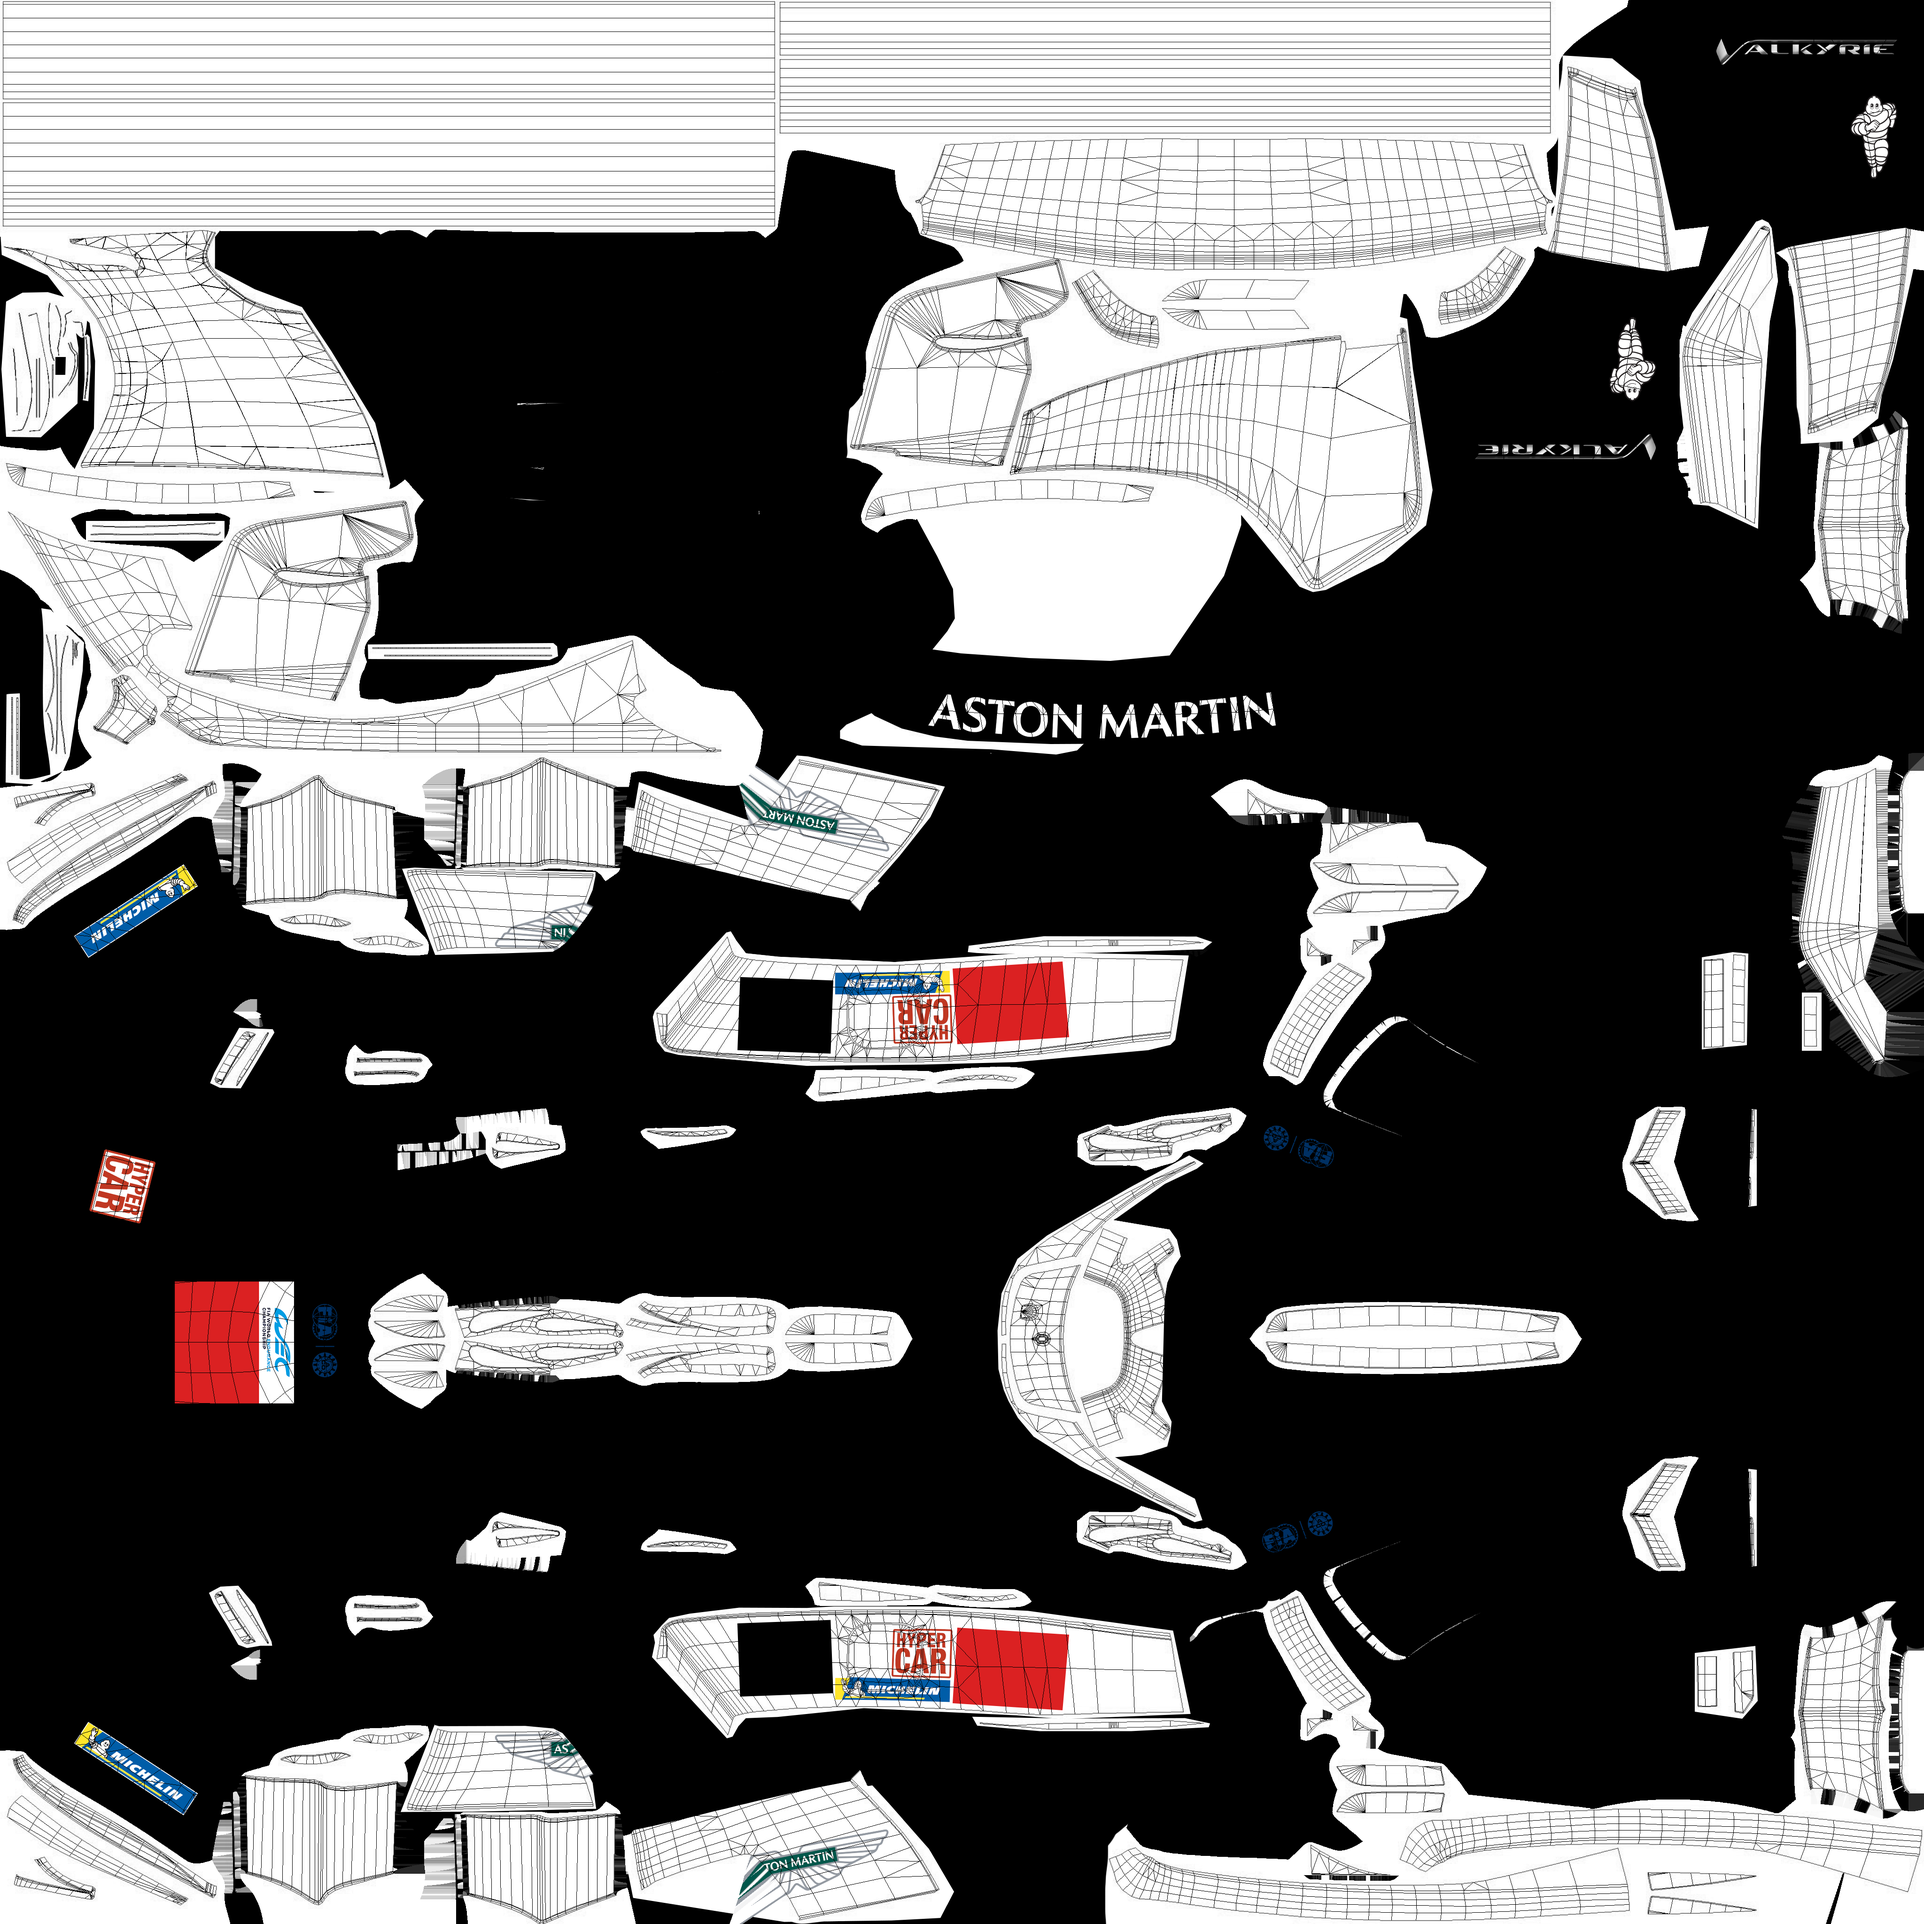
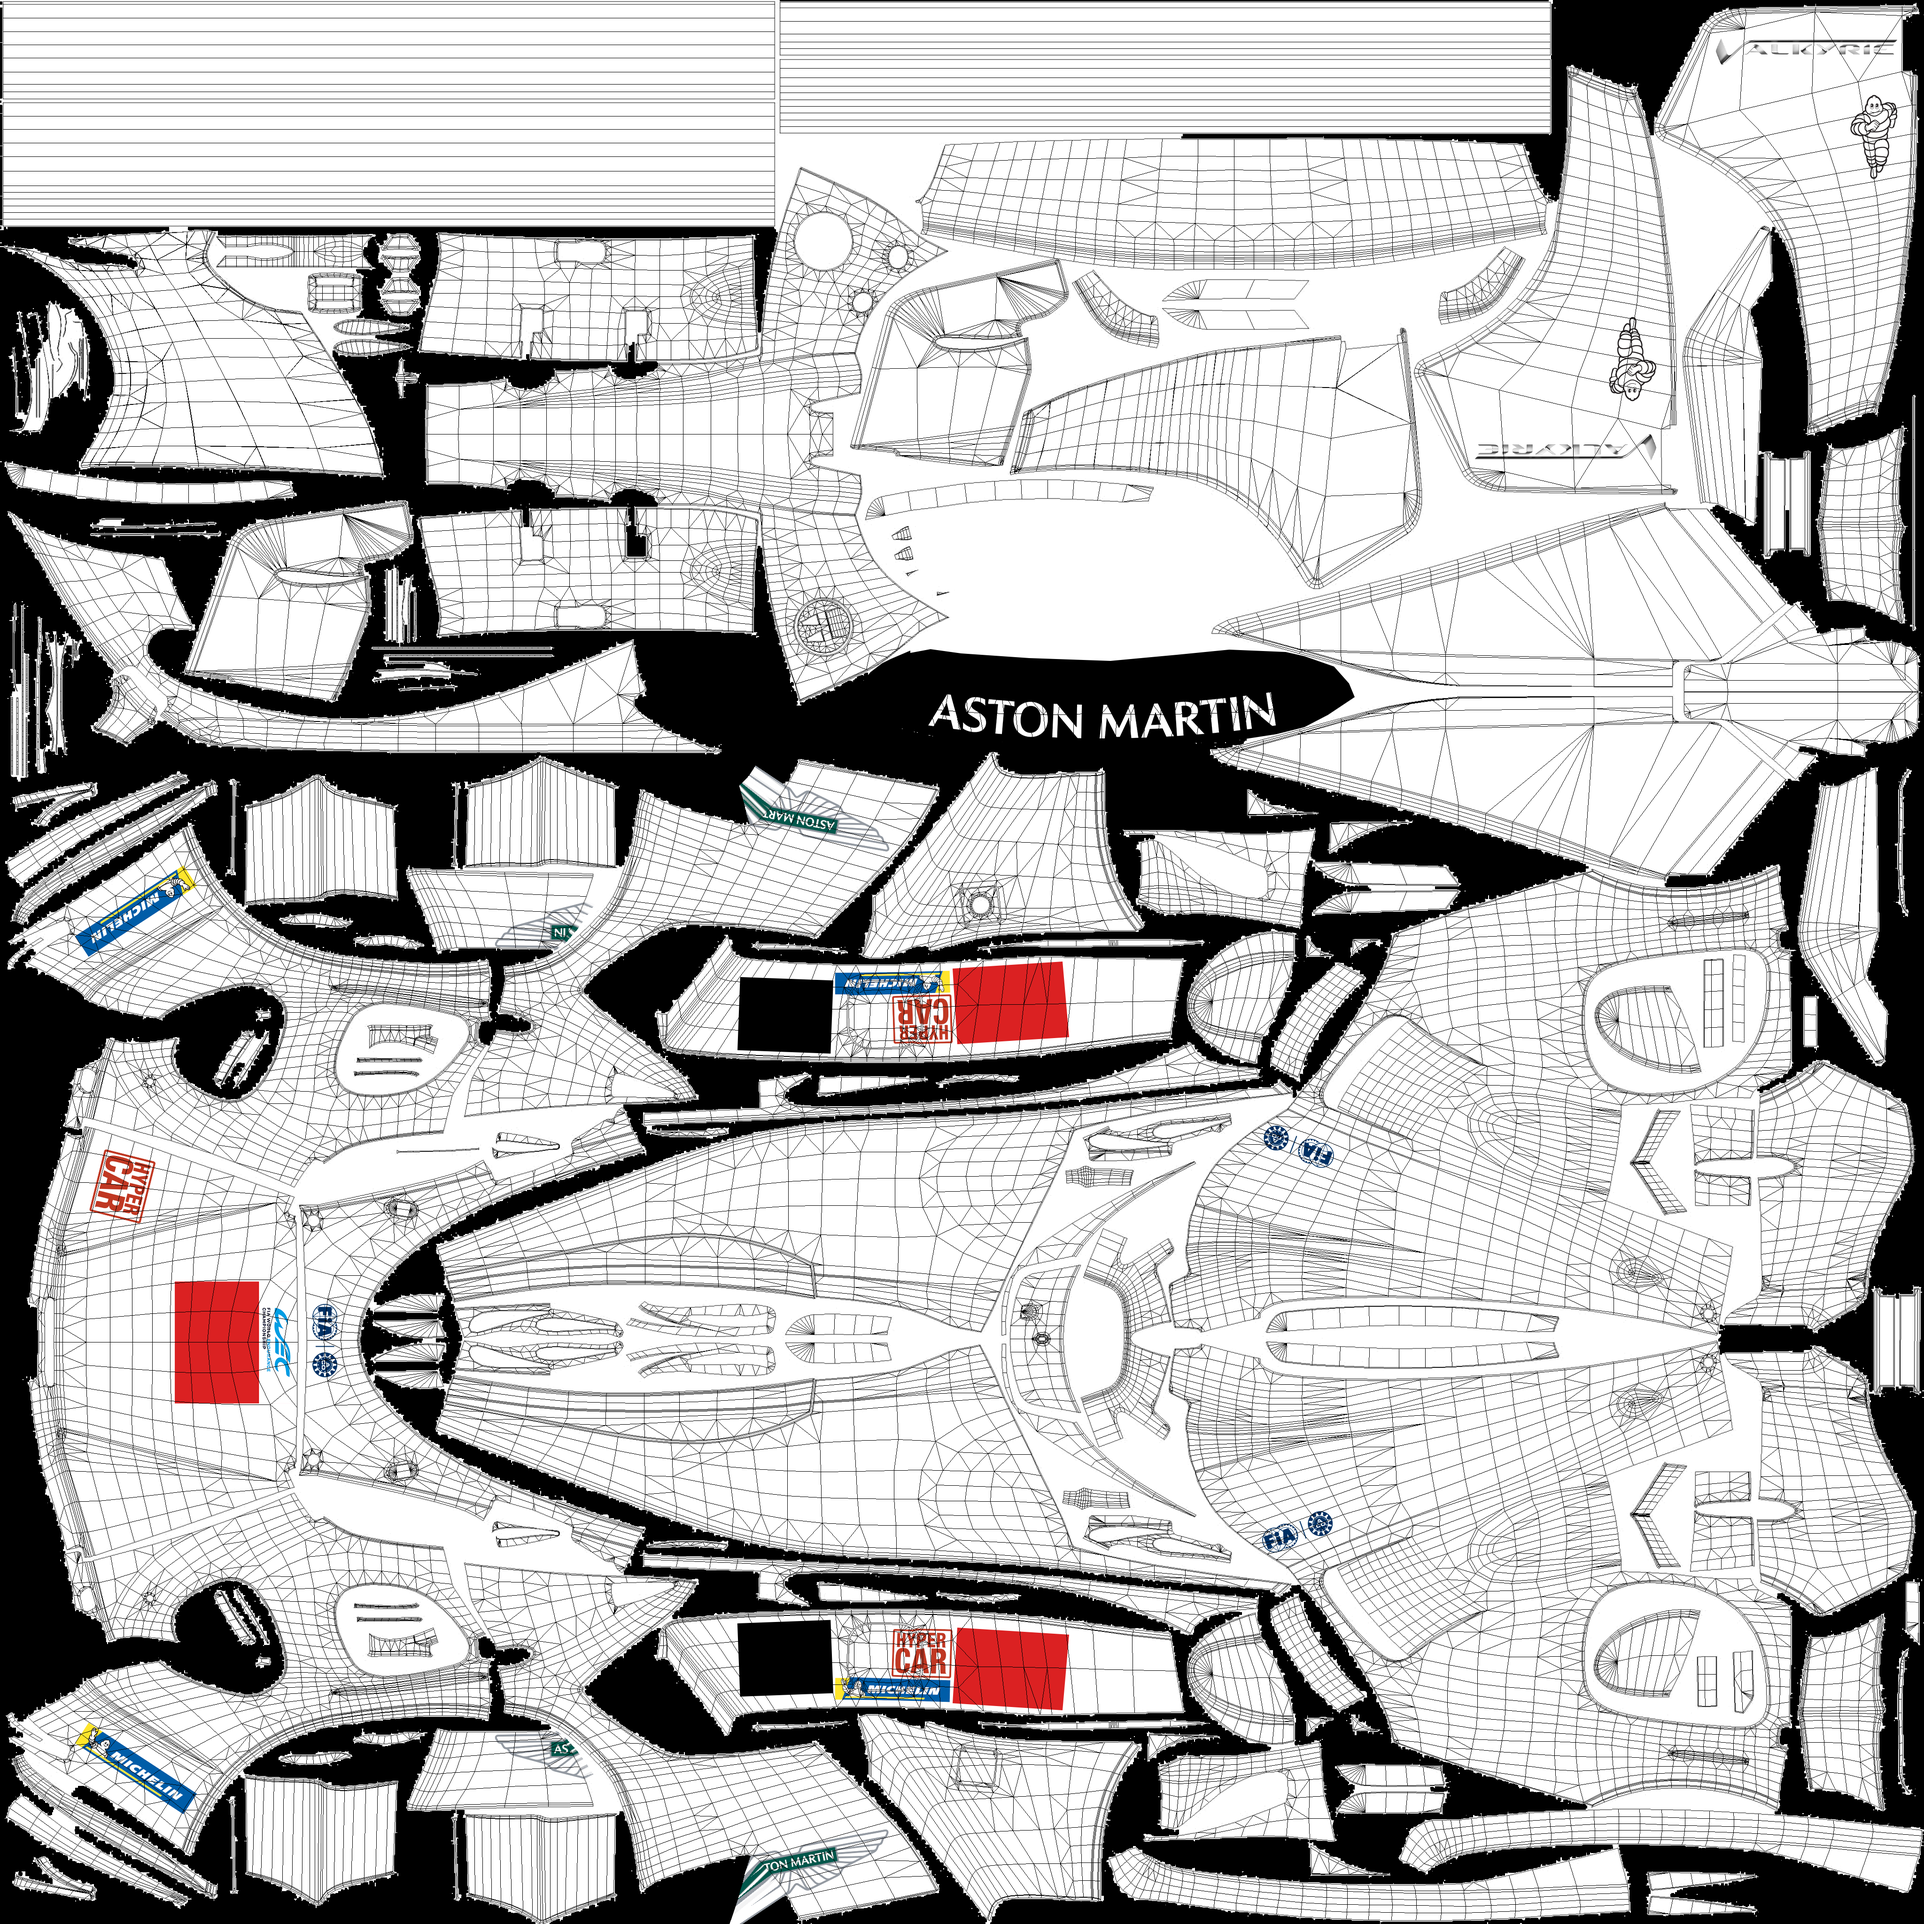
Add the GTE class, release the 2026 templates, rebuild the Valkyrie assets
Roster 29 -> 38.

GTE (4 cars): Aston Martin Vantage GTE, Corvette C8.R GTE, Ferrari 488 GTE and
Porsche 911 RSR GTE, under a new GTE class listed last in CLASS_ORDER. GTE is a
closed, retired category - one template per car, no season or series variants -
so like the GT3s these carry no series badge even though their plates still come
from the WEC subtree.

2026 season (5 cars): Ferrari 296 LMGT3 EVO, Ford Mustang LMGT3 EVO and Porsche
911 GT3 R in LMGT3; Toyota GR010 Hybrid and Cadillac V-Series.R EVO in Hypercar.
Extracted in August but never released. Each sits alongside its 2025 counterpart
rather than replacing it, so saved designs keep the guide they were drawn on.

Every GTE file needed material layers excluded - the Porsche's unnamed "Group 2"
(a matte-plastic block), the Aston's "Black"/"EXHAUST", the Ferrari's
"DETAILS"/"Skirt" - plus the Ferrari's "Car Stickers copy", a flattened duplicate
of its whole sticker set. Left in, these bake solid blobs onto the user's livery
in the exported .tga; excluded, GTE sticker-sheet coverage drops from 4.6-6.5% to
1.9-3.3%, in line with the rest of the pack.

No silhouette override was added. The Ferrari 488 has no "Mask(Disable for
export)" and its "Color Fill 1" reads like a stand-in at 43%, but it is the
surround: naming it puts the islands exactly where the car is not, and the
wireframe then multiplies into the black and the guide ships with no mesh at all.
[…]

diff --git a/src/lib/vehicles.js b/src/lib/vehicles.js
@@ -6,7 +6,7 @@ const LMU_BASE = 'C:\\Program Files (x86)\\Steam\\steamapps\\common\\Le Mans Ult
  * Display order for the class-grouped vehicle picker. Any class not listed here is
  * appended after these, so adding a class to VEHICLES can never hide it.
  */
-export const CLASS_ORDER = ['Hypercar', 'LMP2', 'LMP3', 'LMGT3'];
+export const CLASS_ORDER = ['Hypercar', 'LMP2', 'LMP3', 'LMGT3', 'GTE'];
 
 /**
  * NOTE: `id` is persisted as `saved_designs.vehicle_id` (free text, no FK), and an
@@ -43,6 +43,19 @@ export const VEHICLES = [
     canvasHeight: 4096,
     liveryPath: `${LMU_BASE}\\Ferrari 296 LMGT3`,
   },
+  // 2026-season GT3 templates sit ALONGSIDE their 2025 counterparts, never replace
+  // them - cars with no 2026 file are unchanged for 2026 (confirmed by the LMU dev
+  // team). No liveryPath on 2026 entries: the field is unused and the in-game
+  // folder names for the 2026 cars are unconfirmed.
+  {
+    id: 'ferrari_296_evo_lmgt3',
+    name: 'Ferrari 296 LMGT3 EVO (2026)',
+    class: 'LMGT3',
+    uvMap: '/lmutemplates/Ferrari296LMGT3_EVO_2026_UV.webp',
+    classStickers: '/lmutemplates/TOP_Ferrari296LMGT3_EVO_2026.webp',
+    canvasWidth: 4096,
+    canvasHeight: 4096,
+  },
   {
     id: 'bmw_m4_lmgt3',
     name: 'BMW M4 LMGT3',
@@ -62,6 +75,15 @@ export const VEHICLES = [
     canvasWidth: 4096,
     canvasHeight: 4096,
     liveryPath: `${LMU_BASE}\\Ford Mustang LMGT3`,
+  },
+  {
+    id: 'ford_mustang_evo_lmgt3',
+    name: 'Ford Mustang LMGT3 EVO (2026)',
+    class: 'LMGT3',
+    uvMap: '/lmutemplates/FordMustangLMGT3_EVO_2026_UV.webp',
+    classStickers: '/lmutemplates/TOP_FordMustangLMGT3_EVO_2026.webp',
+    canvasWidth: 4096,
+    canvasHeight: 4096,
   },
   {
     id: 'lamborghini_huracan_lmgt3',
@@ -113,6 +135,15 @@ export const VEHICLES = [
     canvasHeight: 4096,
     liveryPath: `${LMU_BASE}\\Porsche 911 LMGT3`,
   },
+  {
+    id: 'porsche_911_lmgt3_2026',
+    name: 'Porsche 911 GT3 R (2026)',
+    class: 'LMGT3',
+    uvMap: '/lmutemplates/Porsche911LMGT3R_2026_UV.webp',
+    classStickers: '/lmutemplates/TOP_Porsche911LMGT3R_2026.webp',
+    canvasWidth: 4096,
+    canvasHeight: 4096,
+  },
 
   // --- Hypercar (WEC) --------------------------------------------------------
   // Hypercar runs in the WEC only, so these carry no ELMS variant.
@@ -136,6 +167,17 @@ export const VEHICLES = [
     canvasWidth: 4096,
     canvasHeight: 4096,
   },
+  // 2026 update, alongside the 2025 car (same policy as the GT3 2026 entries).
+  {
+    id: 'toyota_gr010_2026_hypercar',
+    name: 'Toyota GR010 Hybrid (2026)',
+    class: 'Hypercar',
+    series: 'WEC',
+    uvMap: '/lmutemplates/ToyotaGR010_2026_UV.webp',
+    classStickers: '/lmutemplates/TOP_ToyotaGR010_2026.webp',
+    canvasWidth: 4096,
+    canvasHeight: 4096,
+  },
   {
     id: 'porsche_963_hypercar',
     name: 'Porsche 963',
@@ -153,6 +195,17 @@ export const VEHICLES = [
     series: 'WEC',
     uvMap: '/lmutemplates/CadillacVSeries_2026_UV.webp',
     classStickers: '/lmutemplates/TOP_CadillacVSeries_2026.webp',
+    canvasWidth: 4096,
+    canvasHeight: 4096,
+  },
+  // Distinct 2026 EVO variant, not an update of the car above.
+  {
+    id: 'cadillac_vseries_evo_hypercar',
+    name: 'Cadillac V-Series.R EVO (2026)',
+    class: 'Hypercar',
+    series: 'WEC',
+    uvMap: '/lmutemplates/CadillacVSeries_EVO_2026_UV.webp',
+    classStickers: '/lmutemplates/TOP_CadillacVSeries_EVO_2026.webp',
     canvasWidth: 4096,
     canvasHeight: 4096,
   },
@@ -309,6 +362,48 @@ export const VEHICLES = [
     series: 'ELMS',
     uvMap: '/lmutemplates/AdessAD25LMP3_UV.webp',
     classStickers: '/lmutemplates/TOP_AdessAD25LMP3.webp',
+    canvasWidth: 4096,
+    canvasHeight: 4096,
+  },
+
+  // --- GTE -------------------------------------------------------------------
+  // A retired, closed class: four cars, one template each, no season or series
+  // variants to disambiguate - so like the GT3s these carry no series badge even
+  // though their plates are taken from the WEC subtree. Listed last in CLASS_ORDER
+  // as the oldest category in the pack.
+  {
+    id: 'aston_martin_vantage_gte',
+    name: 'Aston Martin Vantage GTE',
+    class: 'GTE',
+    uvMap: '/lmutemplates/AstonMartinVantageGTE_UV.webp',
+    classStickers: '/lmutemplates/TOP_AstonMartinVantageGTE.webp',
+    canvasWidth: 4096,
+    canvasHeight: 4096,
+  },
+  {
+    id: 'corvette_c8r_gte',
+    name: 'Corvette C8.R GTE',
+    class: 'GTE',
+    uvMap: '/lmutemplates/CorvetteC8RGTE_UV.webp',
+    classStickers: '/lmutemplates/TOP_CorvetteC8RGTE.webp',
+    canvasWidth: 4096,
+    canvasHeight: 4096,
+  },
+  {
+    id: 'ferrari_488_gte',
+    name: 'Ferrari 488 GTE',
+    class: 'GTE',
+    uvMap: '/lmutemplates/Ferrari488GTE_UV.webp',
+    classStickers: '/lmutemplates/TOP_Ferrari488GTE.webp',
+    canvasWidth: 4096,
+    canvasHeight: 4096,
+  },
+  {
+    id: 'porsche_911_rsr_gte',
+    name: 'Porsche 911 RSR GTE',
+    class: 'GTE',
+    uvMap: '/lmutemplates/Porsche911RSRGTE_UV.webp',
+    classStickers: '/lmutemplates/TOP_Porsche911RSRGTE.webp',
     canvasWidth: 4096,
     canvasHeight: 4096,
   },

diff --git a/README.md b/README.md
@@ -54,8 +54,14 @@ node --max-old-space-size=8192 scripts/psd-extract.mjs \
 # extract everything listed in scripts/templates.manifest.mjs
 node scripts/psd-batch.mjs public/lmutemplates
 
+# ...or just one class / one car, when adding to an existing roster
+node scripts/psd-batch.mjs public/lmutemplates GTE
+
 # body-parts masks for every vehicle (includes the 10 hand-made GT3 cars)
 node --max-old-space-size=28672 scripts/psd-masks.mjs
+
+# takes the same optional filter, so adding a class need not re-derive every mask
+node --max-old-space-size=28672 scripts/psd-masks.mjs public/lmutemplates GTE
 
 # final step: PNG -> lossless WebP, ~55% smaller (74MB -> 34MB)
 node scripts/webp-convert.mjs
@@ -92,9 +98,15 @@ misspells the mask layer as `Maks(Disable for export)`. Matching is therefore do
 patterns, with genuine one-offs declared per file in
 [scripts/templates.manifest.mjs](scripts/templates.manifest.mjs):
 
-- `exclude: ['Car']` — drop a group that would otherwise flood the sticker sheet
-  (Ferrari 499P keeps its red paint there; Lamborghini SC63 has a stray
-  `Class Stickers copy` plate).
+- `exclude: ['Car']` — drop a top-level group that would otherwise flood the sticker
+  sheet (Ferrari 499P keeps its red paint there; Lamborghini SC63 and Ferrari 488 GTE
+  each carry a stray flattened `… copy` of their whole sticker set). It also catches
+  material layers sitting outside the groups `SHADING_RE` knows about, which is what
+  every GTE file needed: the Porsche RSR's unnamed `Group 2` (a matte-plastic block),
+  the Aston Vantage GTE's `Black`/`EXHAUST`, the Ferrari 488 GTE's `DETAILS`/`Skirt`.
+  Left in, these bake solid blobs onto the user's livery in the exported `.tga`;
+  excluded, GTE sticker-sheet coverage drops from 4.6–6.5% to 1.9–3.3%, matching the
+  rest of the pack. Matching is on **top-level** layer names only.
 - `silhouette: 'Car Stickers > Michelin > Michelin'` — name the layer carrying the body
   outline, for files with no `Mask(Disable for export)` plate. The extractor reads that
   layer's **mask** first and falls back to its **painted shape** when the mask is not
@@ -130,6 +142,14 @@ independently (`silhouetteFromWire`). Given a file's authored outline, the extra
 - **keeps it and warns** when the two disagree some other way, since that is a
   different problem and swapping silently would bury it;
 - **falls back to the mesh shape** when the file has no usable outline at all.
+
+Do not reach for `silhouette` just because a layer's coverage looks plausible: a body
+outline and its own surround both land in the same 40–70% band, so the number cannot
+tell them apart. The Ferrari 488 GTE has no `Mask(Disable for export)` and calls that
+plate `Color Fill 1`; at 43% it reads like an outline, but it is the surround, and
+naming it puts the islands exactly where the car is not — whereupon the wireframe
+multiplies into the black and the guide ships with no mesh at all. Left with no
+override it reconstructs correctly from the mesh (63%), as the Valkyrie now does.
 
 `npm run test:silhouette` checks both halves without a PSD: it reads the mesh back out
 of the shipped guides and measures the reconstruction against those cars' authored

diff --git a/CHANGELOG.md b/CHANGELOG.md
@@ -2,6 +2,32 @@
 
 All notable changes to the LMU Livery Design Tool.
 
+## Unreleased — 16 September 2026
+
+### Added
+
+- **The GTE class, taking the roster from 34 to 38.** All four GTE cars from the
+  official pack: **Aston Martin Vantage GTE**, **Corvette C8.R GTE**, **Ferrari 488
+  GTE** and **Porsche 911 RSR GTE**. GTE is a retired, closed category — one template
+  per car, no season or series variants — so unlike LMP2 these carry no WEC/ELMS badge,
+  and unlike the 2026 cars there is no earlier entry for them to sit alongside. They
+  appear under a new **GTE** option in the Class filter, listed last as the oldest
+  category in the pack.
+- **Five 2026-season cars** extracted in August but not previously released: Ferrari 296
+  LMGT3 EVO, Ford Mustang LMGT3 EVO and Porsche 911 GT3 R in LMGT3, Toyota GR010 Hybrid
+  and Cadillac V-Series.R EVO in Hypercar. Each is a **new entry alongside** its 2025
+  counterpart, so existing designs keep the guide they were drawn on; cars without a new
+  template are unchanged for 2026 (confirmed by the LMU dev team).
+
+### Fixed
+
+- **The Aston Martin Valkyrie's guide and mask are rebuilt.** Its outline now comes from
+  the wireframe reconstruction rather than the bad `region > Region 1` override that was
+  removed earlier: the paintable area goes from 37% of the texture to 69%, the black
+  surround from 57% down to 19%, and its stranded-decal figure from a failing 37% to
+  1.0%. These are the regenerated assets that change could not ship without a Le Mans
+  Ultimate install.
+
 ## Unreleased — 10 August 2026
 
 ### Fixed
